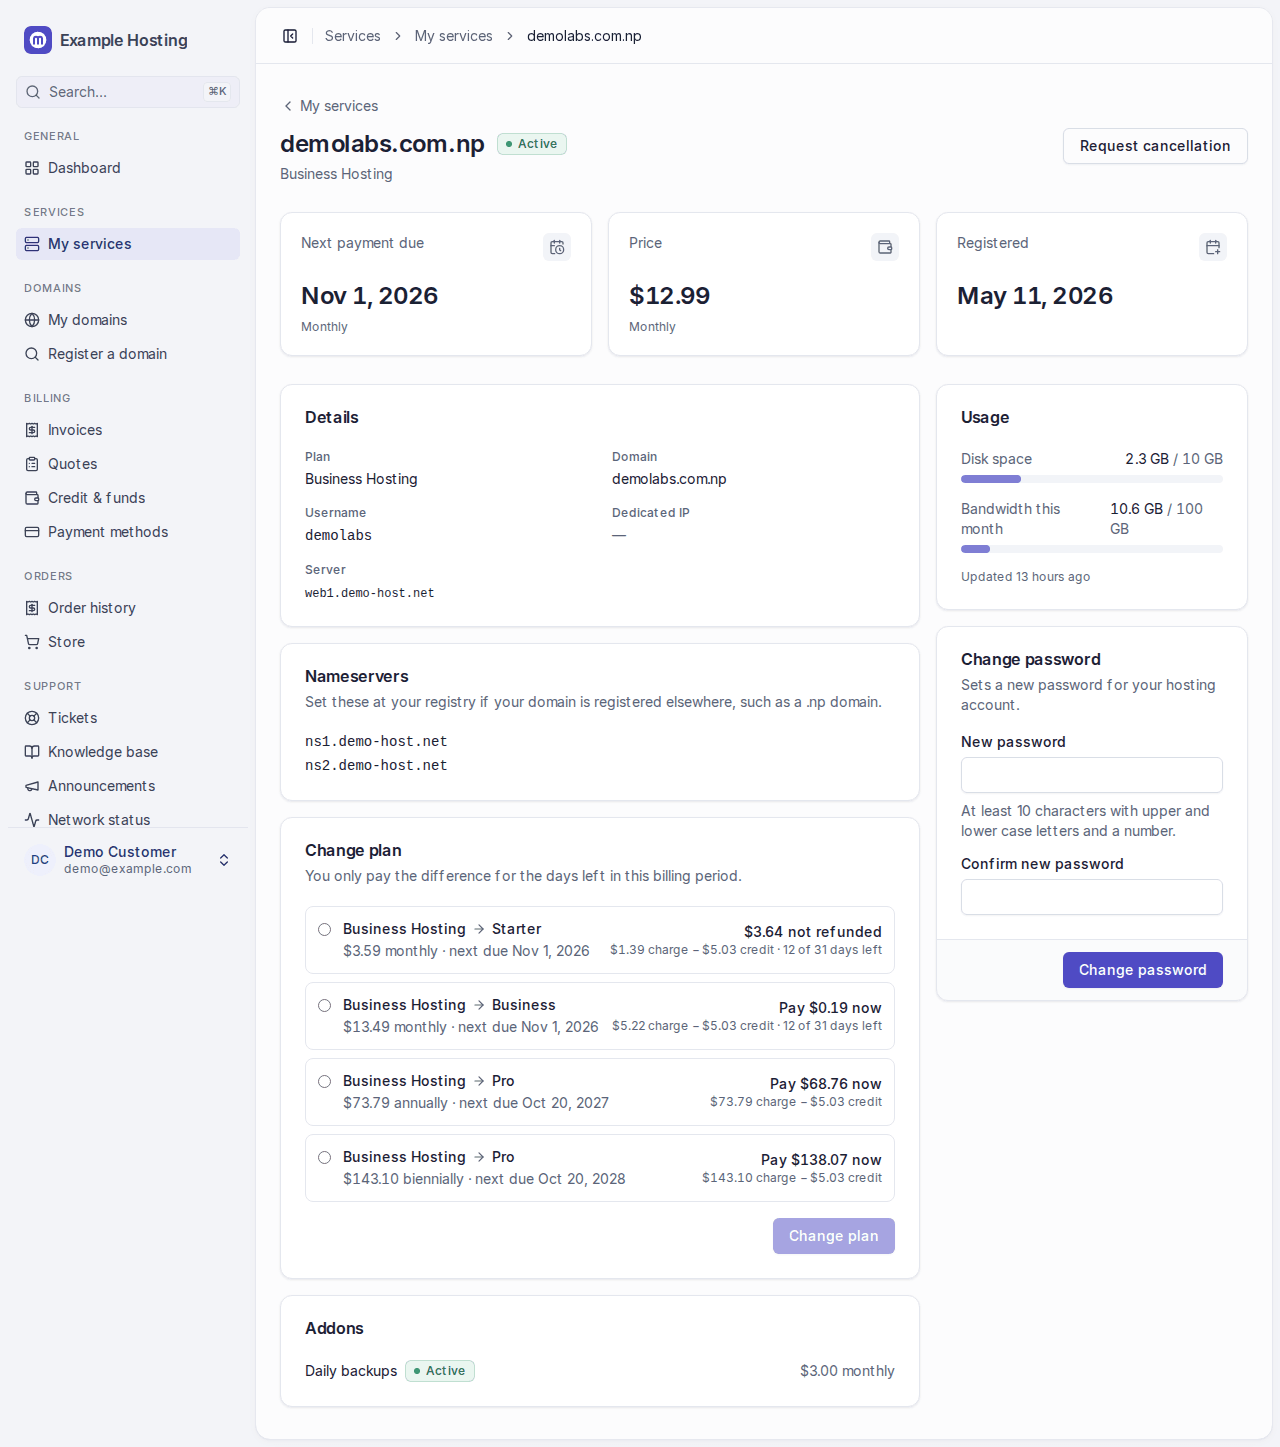
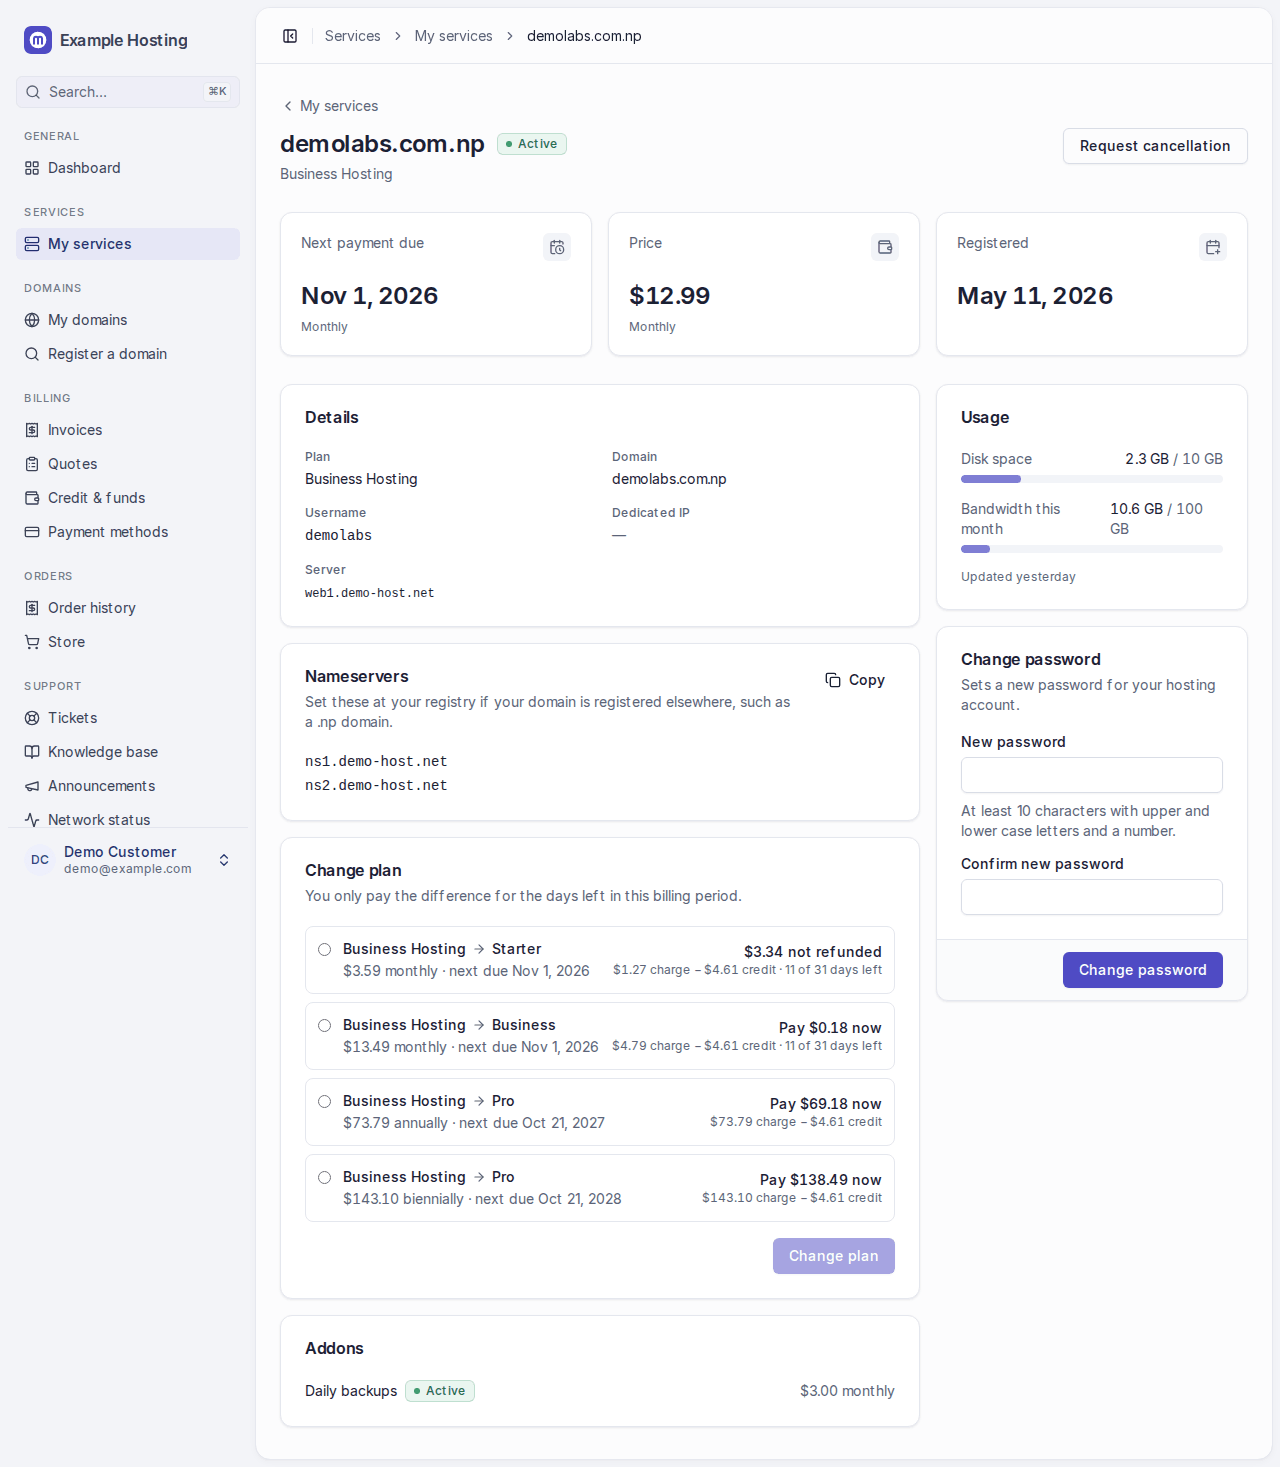
fix(services): tidy ClientNameservers for phpstan; retake the nameserver card screenshots

diff --git a/billing/app/Modules/Services/Support/ClientNameservers.php b/billing/app/Modules/Services/Support/ClientNameservers.php
@@ -20,7 +20,7 @@ final class ClientNameservers
      */
     public function forService(Service $service): array
     {
-        $server = $this->normalise($service->server?->nameservers ?? []);
+        $server = $this->normalise($service->server->nameservers ?? []);
 
         // Without a domain there is nothing to point, so only the server's own list is kept (as before).
         return $server !== [] || $service->domain === null ? $server : $this->savedDefault();
@@ -51,6 +51,6 @@ final class ClientNameservers
      */
     private function normalise(mixed $list): array
     {
-        return array_values(array_map('strtolower', SettingList::of($list)));
+        return array_map(strtolower(...), SettingList::of($list));
     }
 }
